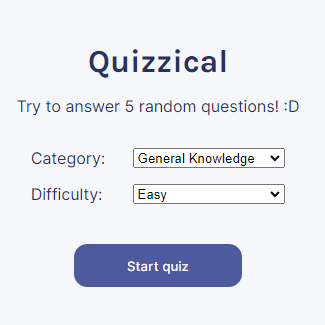
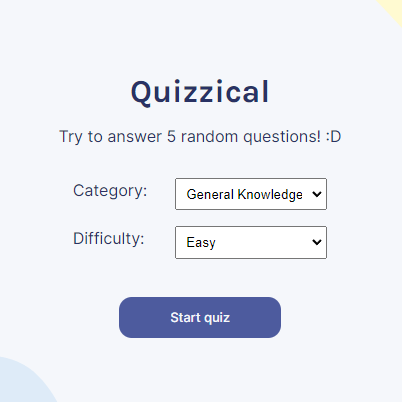
added various projects data

diff --git a/src/assets/workData.js b/src/assets/workData.js
@@ -1,13 +1,17 @@
-import portfolioImg01 from '../assets/img/portfolio-01.jpg'
-import portfolioImg02 from '../assets/img/portfolio-02.jpg'
-import portfolioImg03 from '../assets/img/portfolio-03.jpg'
-import portfolioImg04 from '../assets/img/portfolio-04.jpg'
-import portfolioImg05 from '../assets/img/portfolio-05.jpg'
-
 import quizzicalPreview from '../assets/img/quizzical-preview.png'
 import quizzicalFull from '../assets/img/quizzical-full.png'
 import warPreview from '../assets/img/war-preview.png'
 import warFull from '../assets/img/war-full.png'
+import moviePreview from '../assets/img/movie-preview.png'
+import movieFull from '../assets/img/movie-full.png'
+import colorPreview from '../assets/img/color-preview.png'
+import colorFull from '../assets/img/color-full.png'
+import journalPreview from '../assets/img/journal-preview.png'
+import journalFull from '../assets/img/journal-full.png'
+import blogPreview from '../assets/img/blog-preview.png'
+import blogFull from '../assets/img/blog-full.png'
+import tindogPreview from '../assets/img/tindog-preview.png'
+import tindogFull from '../assets/img/tindog-full.png'
 
 const workData = [
     {
@@ -30,51 +34,91 @@ const workData = [
         subtitle: "a classic card game",
         previewImage: warPreview,
         fullImage: warFull,
-        p1: "A recreation of the well known War card game in the form of a javascript web application. Is your luck good enough to win against the computer?",
-        p2: "The goal of the game is to collect all of the cards available in the deck. You can win your opponents cards by pulling a higher value card during a battle. If both of the cards have the same value - a war starts, and the stakes get higher!",
+        p1: "A recreation of the well known War card game in the form of a javascript web application made using the Deck of Cards API. Is your luck good enough to win against the computer?",
+        p2: "The goal of the game is to collect all of the cards available in the deck. You can win your opponent's cards by pulling a higher value card during a battle. If both of the cards have the same value - a war starts, and the stakes get higher!",
         p3: "You can check the game out for yourself or look through the source code using one of the two links available below:",
         appLink: "https://tentacle-bean.github.io/war-card-game/",
         repoLink: "https://github.com/tentacle-bean/war-card-game",
     },
     {
         _id: "3",
-        title: "",
-        titleStrong: "",
-        subtitle: "",
-        previewImage: quizzicalPreview,
-        fullImage: quizzicalFull,
-        p1: "",
-        p2: "",
-        p3: "",
-        appLink: "",
-        repoLink: "",
+        title: "Movie Watchlist",
+        titleStrong: "Maker",
+        subtitle: "keep track of movies",
+        previewImage: moviePreview,
+        fullImage: movieFull,
+        p1: "Having trouble keeping track of all those interesting movies to watch? Just search them up by typing in the title in the searchbar and add them to your personal watchlist!",
+        p2: `Every movie you add will be present in the "My Watchlist" tab visible in the top right corner. The app will store your chosen movies in localstorage - so no need to worry about losing your data on refresh! You can also easily remove entries from your watchlist in case you've already seen them.`,
+        p3: "Links to the deployed website and it's github repository are available below. Bear in mind the search function won't work due to Netlify's security restrictions and The Open Movie Database's movie data being provided in HTTP instead of HTTPS. If you want to fully test the app you'll need to host it yourself.",
+        appLink: "https://funny-sorbet-4c7175.netlify.app/",
+        repoLink: "https://github.com/tentacle-bean/movie-watchlist-maker",
     },
     {
         _id: "4",
-        title: "",
-        titleStrong: "",
-        subtitle: "",
-        previewImage: quizzicalPreview,
-        fullImage: quizzicalFull,
-        p1: "",
-        p2: "",
-        p3: "",
-        appLink: "",
-        repoLink: "",
+        title: "The Color Palette",
+        titleStrong: "Generator",
+        subtitle: "find a color palette",
+        previewImage: colorPreview,
+        fullImage: colorFull,
+        p1: "Need to find an inspiring color combination for your new project? Look no further! Just pick a base color for your new palette, choose a palette type and copy the new colors' hex codes.",
+        p2: "This project was made using The Color API. It provides the user with a few color scheme generation types to use, those types being: monochrome, monochrome-dark, monochrome-light, analogic, complement, analogic-complement, triad and some more. The end results vary greatly depending on the option you choose so experiment and find out which mode works best for your needs.",
+        p3: "You can check the app for yourself and generate your own color scheme or look through the app's source code using one of the links provided below:",
+        appLink: "https://tentacle-bean.github.io/color-picker/",
+        repoLink: "https://github.com/tentacle-bean/color-picker",
     },
     {
         _id: "5",
+        title: "Travel Journal",
+        titleStrong: "Site Mockup",
+        subtitle: "a react and css3 practice",
+        previewImage: journalPreview,
+        fullImage: journalFull,
+        p1: "This small mockup of a personal travel journal site was made using React and CSS3. It was made in order to practice writing data-driven components in React, which were created based on the data of 3 chosen locations.",
+        p2: "The site's design is fully responsive on most common pc and mobile viewport sizes. Layout of individuald cards was made using CSS grid.",
+        p3: "You can check the web app out yourself or look through it's source code using one of the links available below:",
+        appLink: "https://loquacious-platypus-506d42.netlify.app/",
+        repoLink: "https://github.com/tentacle-bean/travel-journal",
+    },
+    {
+        _id: "6",
+        title: "Tindog",
+        titleStrong: "Web Application",
+        subtitle: "a social media app mockup",
+        previewImage: tindogPreview,
+        fullImage: tindogFull,
+        p1: "Tindog is a small scale mockup of a popular mobile social media app. It was made with responsive web design practice in mind, with some random animal pictures to brighten the mood.",
+        p2: "The application is interactive - you can either like or dislike each entry. After doing so an animated badge will appear on each rated picture. The app can be further populated with additional fake animal profiles by adding necessary data - additional components will be automatically created by the app.",
+        p3: "You can check the app out yourself or look through it's source code by clicking one of the links below:",
+        appLink: "https://astounding-naiad-5f10ec.netlify.app/",
+        repoLink: "https://github.com/tentacle-bean/Tindog",
+    },
+    {
+        _id: "7",
+        title: "Blog Site",
+        titleStrong: "Mockup",
+        subtitle: "a website design practice",
+        previewImage: blogPreview,
+        fullImage: blogFull,
+        p1: "A small project created in order to practice designing responsive, aesthetically pleasing websites.",
+        p2: "The application interacts with a simple API, posting the contents of the written post and updating the list of placeholder entries at the bottom with newly added data",
+        p3: "You can test the application yourself or visit it's repository by using one of the links below:",
+        appLink: "https://tentacle-bean.github.io/blog-mockup/",
+        repoLink: "https://github.com/tentacle-bean/blog-mockup",
+    },
+    {
+        _id: "8",
         title: "",
         titleStrong: "",
         subtitle: "",
-        previewImage: quizzicalPreview,
-        fullImage: quizzicalFull,
+        previewImage: blogPreview,
+        fullImage: blogFull,
         p1: "",
         p2: "",
         p3: "",
         appLink: "",
         repoLink: "",
     },
+    
 ]
 
 export default workData

diff --git a/src/styles/index.css b/src/styles/index.css
@@ -13,18 +13,29 @@
     --clr-dark: #303030;
     --clr-darker: #141414;
     --clr-accent: #16e0bd;
+    --clr-accent: #9F85FF;
     
     --bs:   0.25em 0.25em 0.75em rgba(0,0,0,.25),
             0.125em 0.125em 0.25em rgba(0,0,0,.15);
     
-    --fs-h1: 3rem;
-    --fs-h2: 3.75rem;
+    --fs-h1: 2rem;
+    --fs-h2: 3rem;
     --fs-h3: 1.5rem;
-    --fs-st-h: 1.6875rem;
-    --fs-body: 1.125rem;
+    --fs-st-h: 1.25rem;
+    --fs-body: 1rem;
 }
 
-@media (min-width: 900px) {
+@media (min-width: 350px) {
+    :root {
+        --fs-h1: 3rem;
+        --fs-h2: 3.75rem;
+        --fs-h3: 1.5rem;
+        --fs-st-h: 1.6875rem;
+        --fs-body: 1.125rem;
+    }
+}
+
+@media (min-width: 800px) {
     :root {
         --fs-h1: 4.5rem;
         --fs-st-h: 2.375rem;
@@ -170,7 +181,8 @@ strong{
 .btn{
     color: var(--clr-dark);
     background-color: var(--clr-accent);
-    padding: 0.75em 3em;
+    padding: 0.75em 0em;
+    width: 11em;
     transition: transform 200ms ease-in-out;
     border: none;
 }
@@ -307,7 +319,7 @@ strong{
 
 
 
-@media (min-width: 975px){
+@media (min-width: 1005px){
     .section-container{
         padding: 8em 2em;
         width: unset;
@@ -436,12 +448,14 @@ strong{
 
 .portfolio-img-full{
     width: auto;
+    max-width: 100%;
     max-height: 100vh;
 }
 
 .portfolio-item-individual p {
     max-width: 600px;
     margin: 2em auto;
+    text-align: left;
 }
 
 .portfolio-item-individual p:first-child{

diff --git a/src/components/Work.jsx b/src/components/Work.jsx
@@ -5,6 +5,7 @@ import {useRef, useEffect} from 'react'
 
 function Work(){
     const { pathname } = useLocation();
+    console.log(workData.length)
 
     const portfolioItemPreviews = workData.map(dataObj => 
         <Link key={dataObj._id} to={`/work/${dataObj._id}`} className="portfolio-item">
